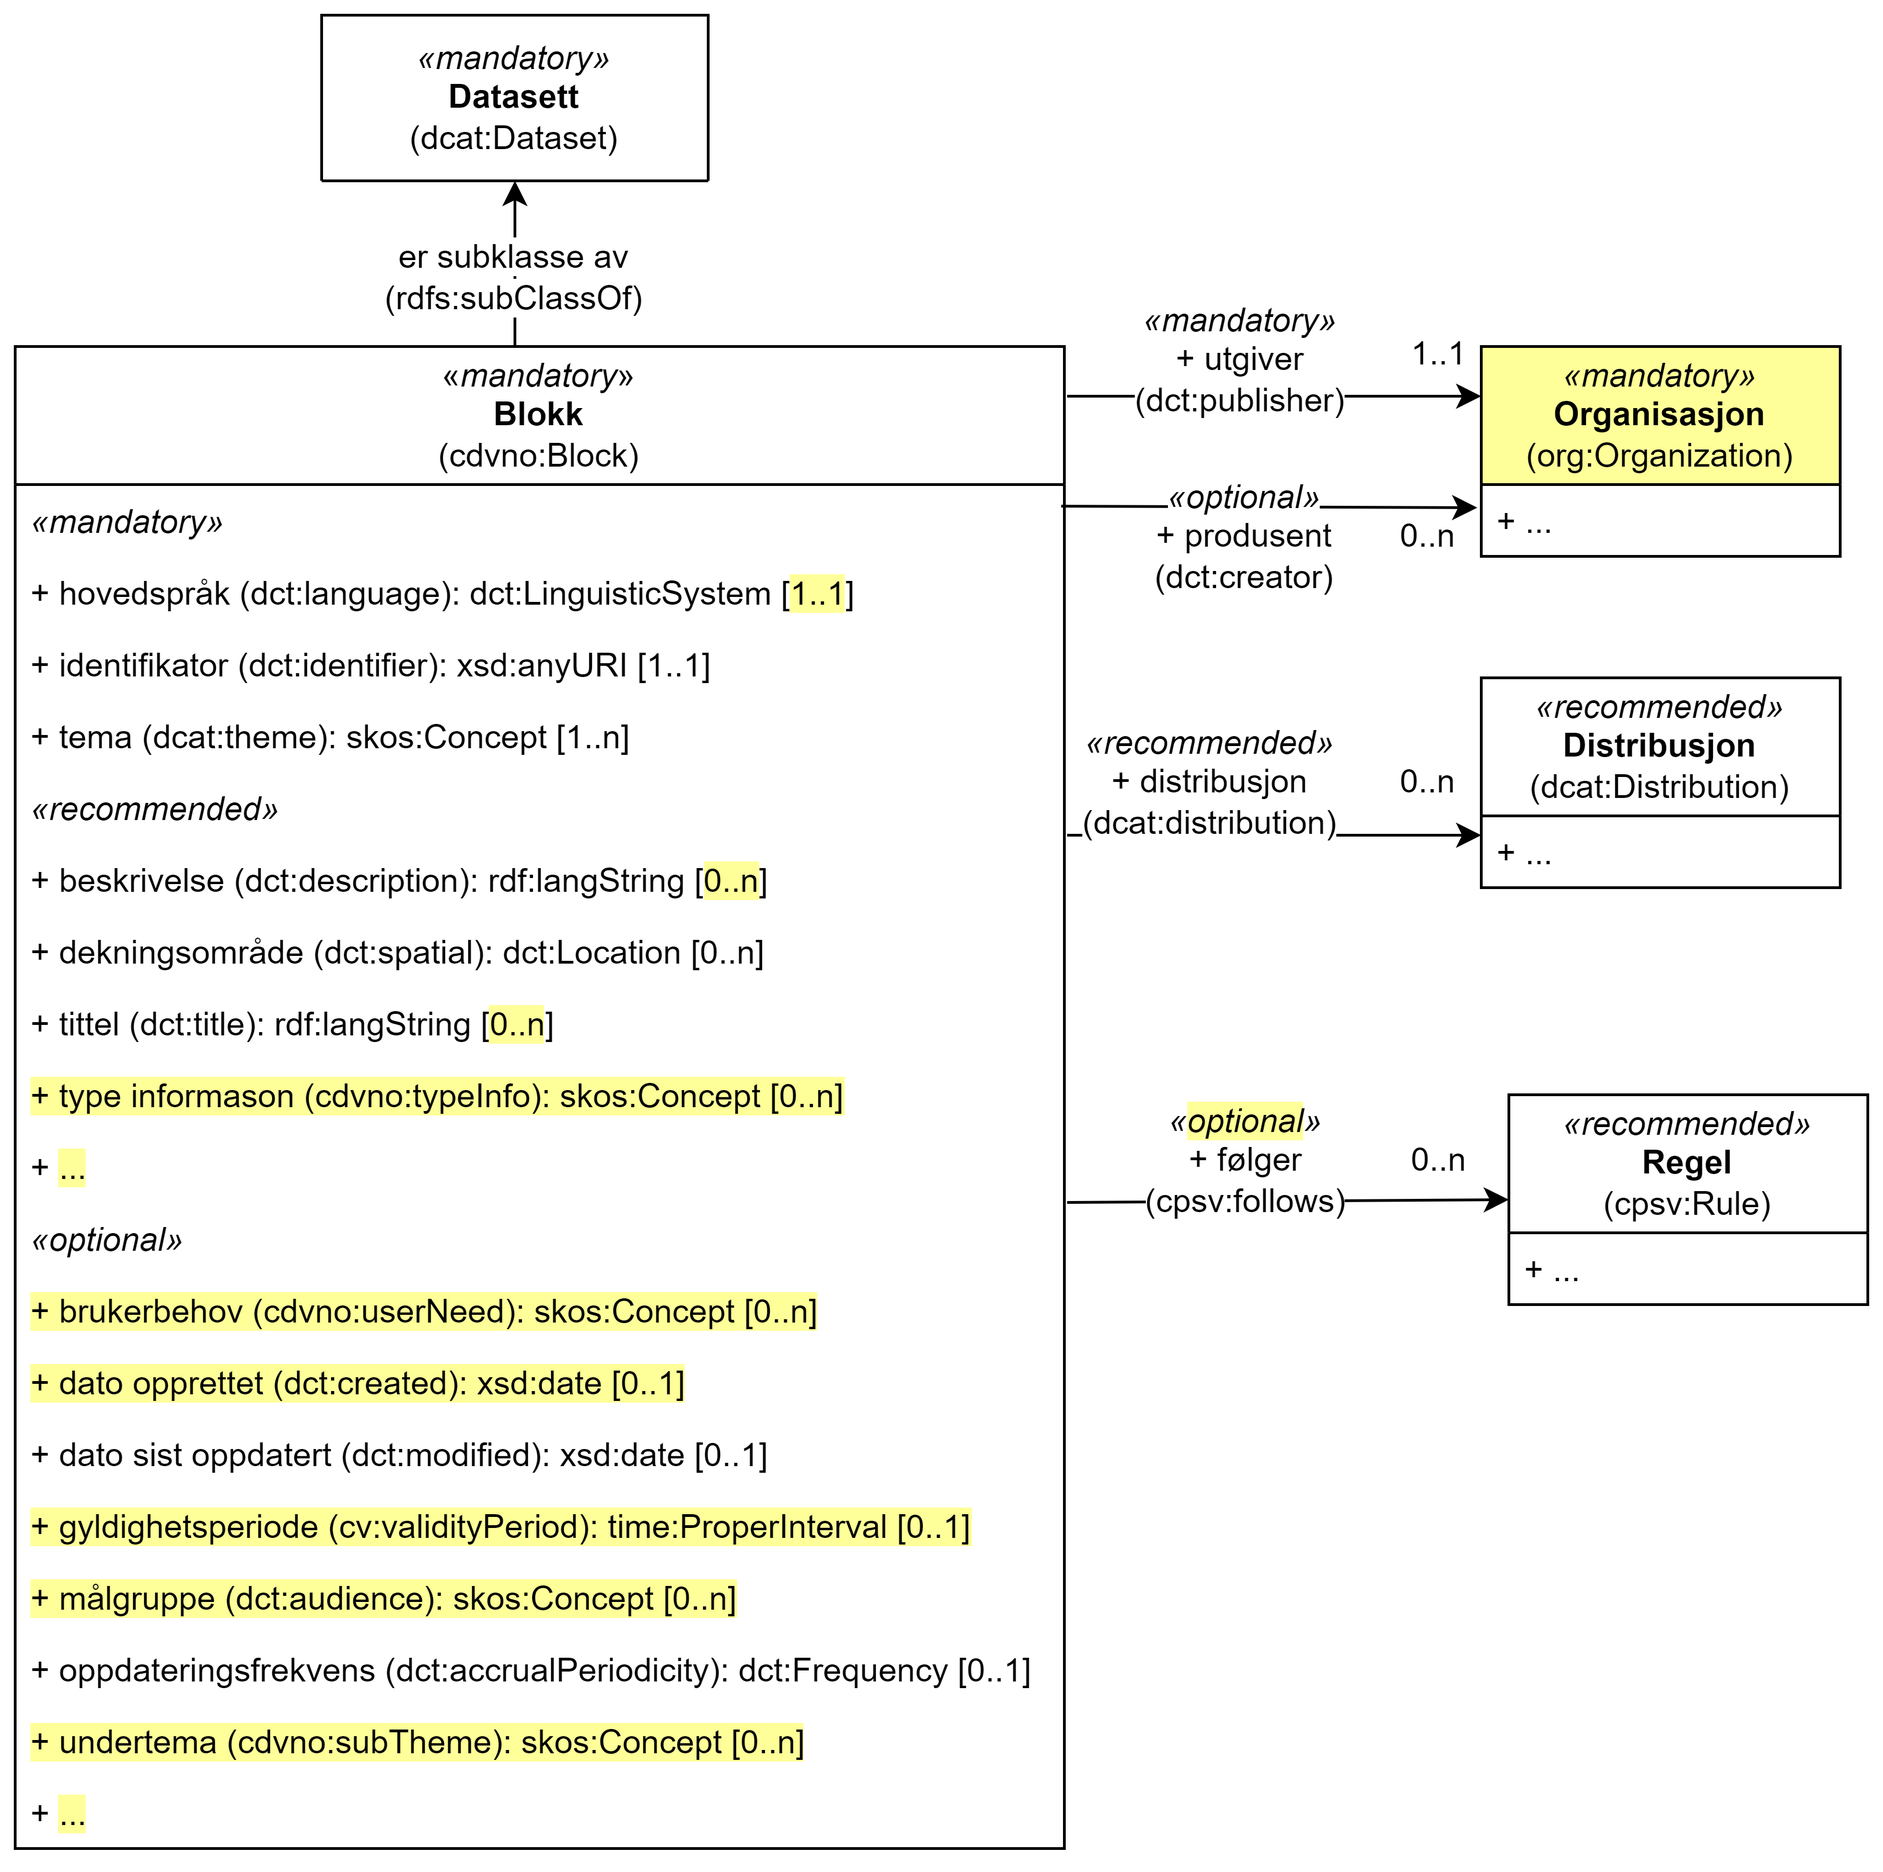
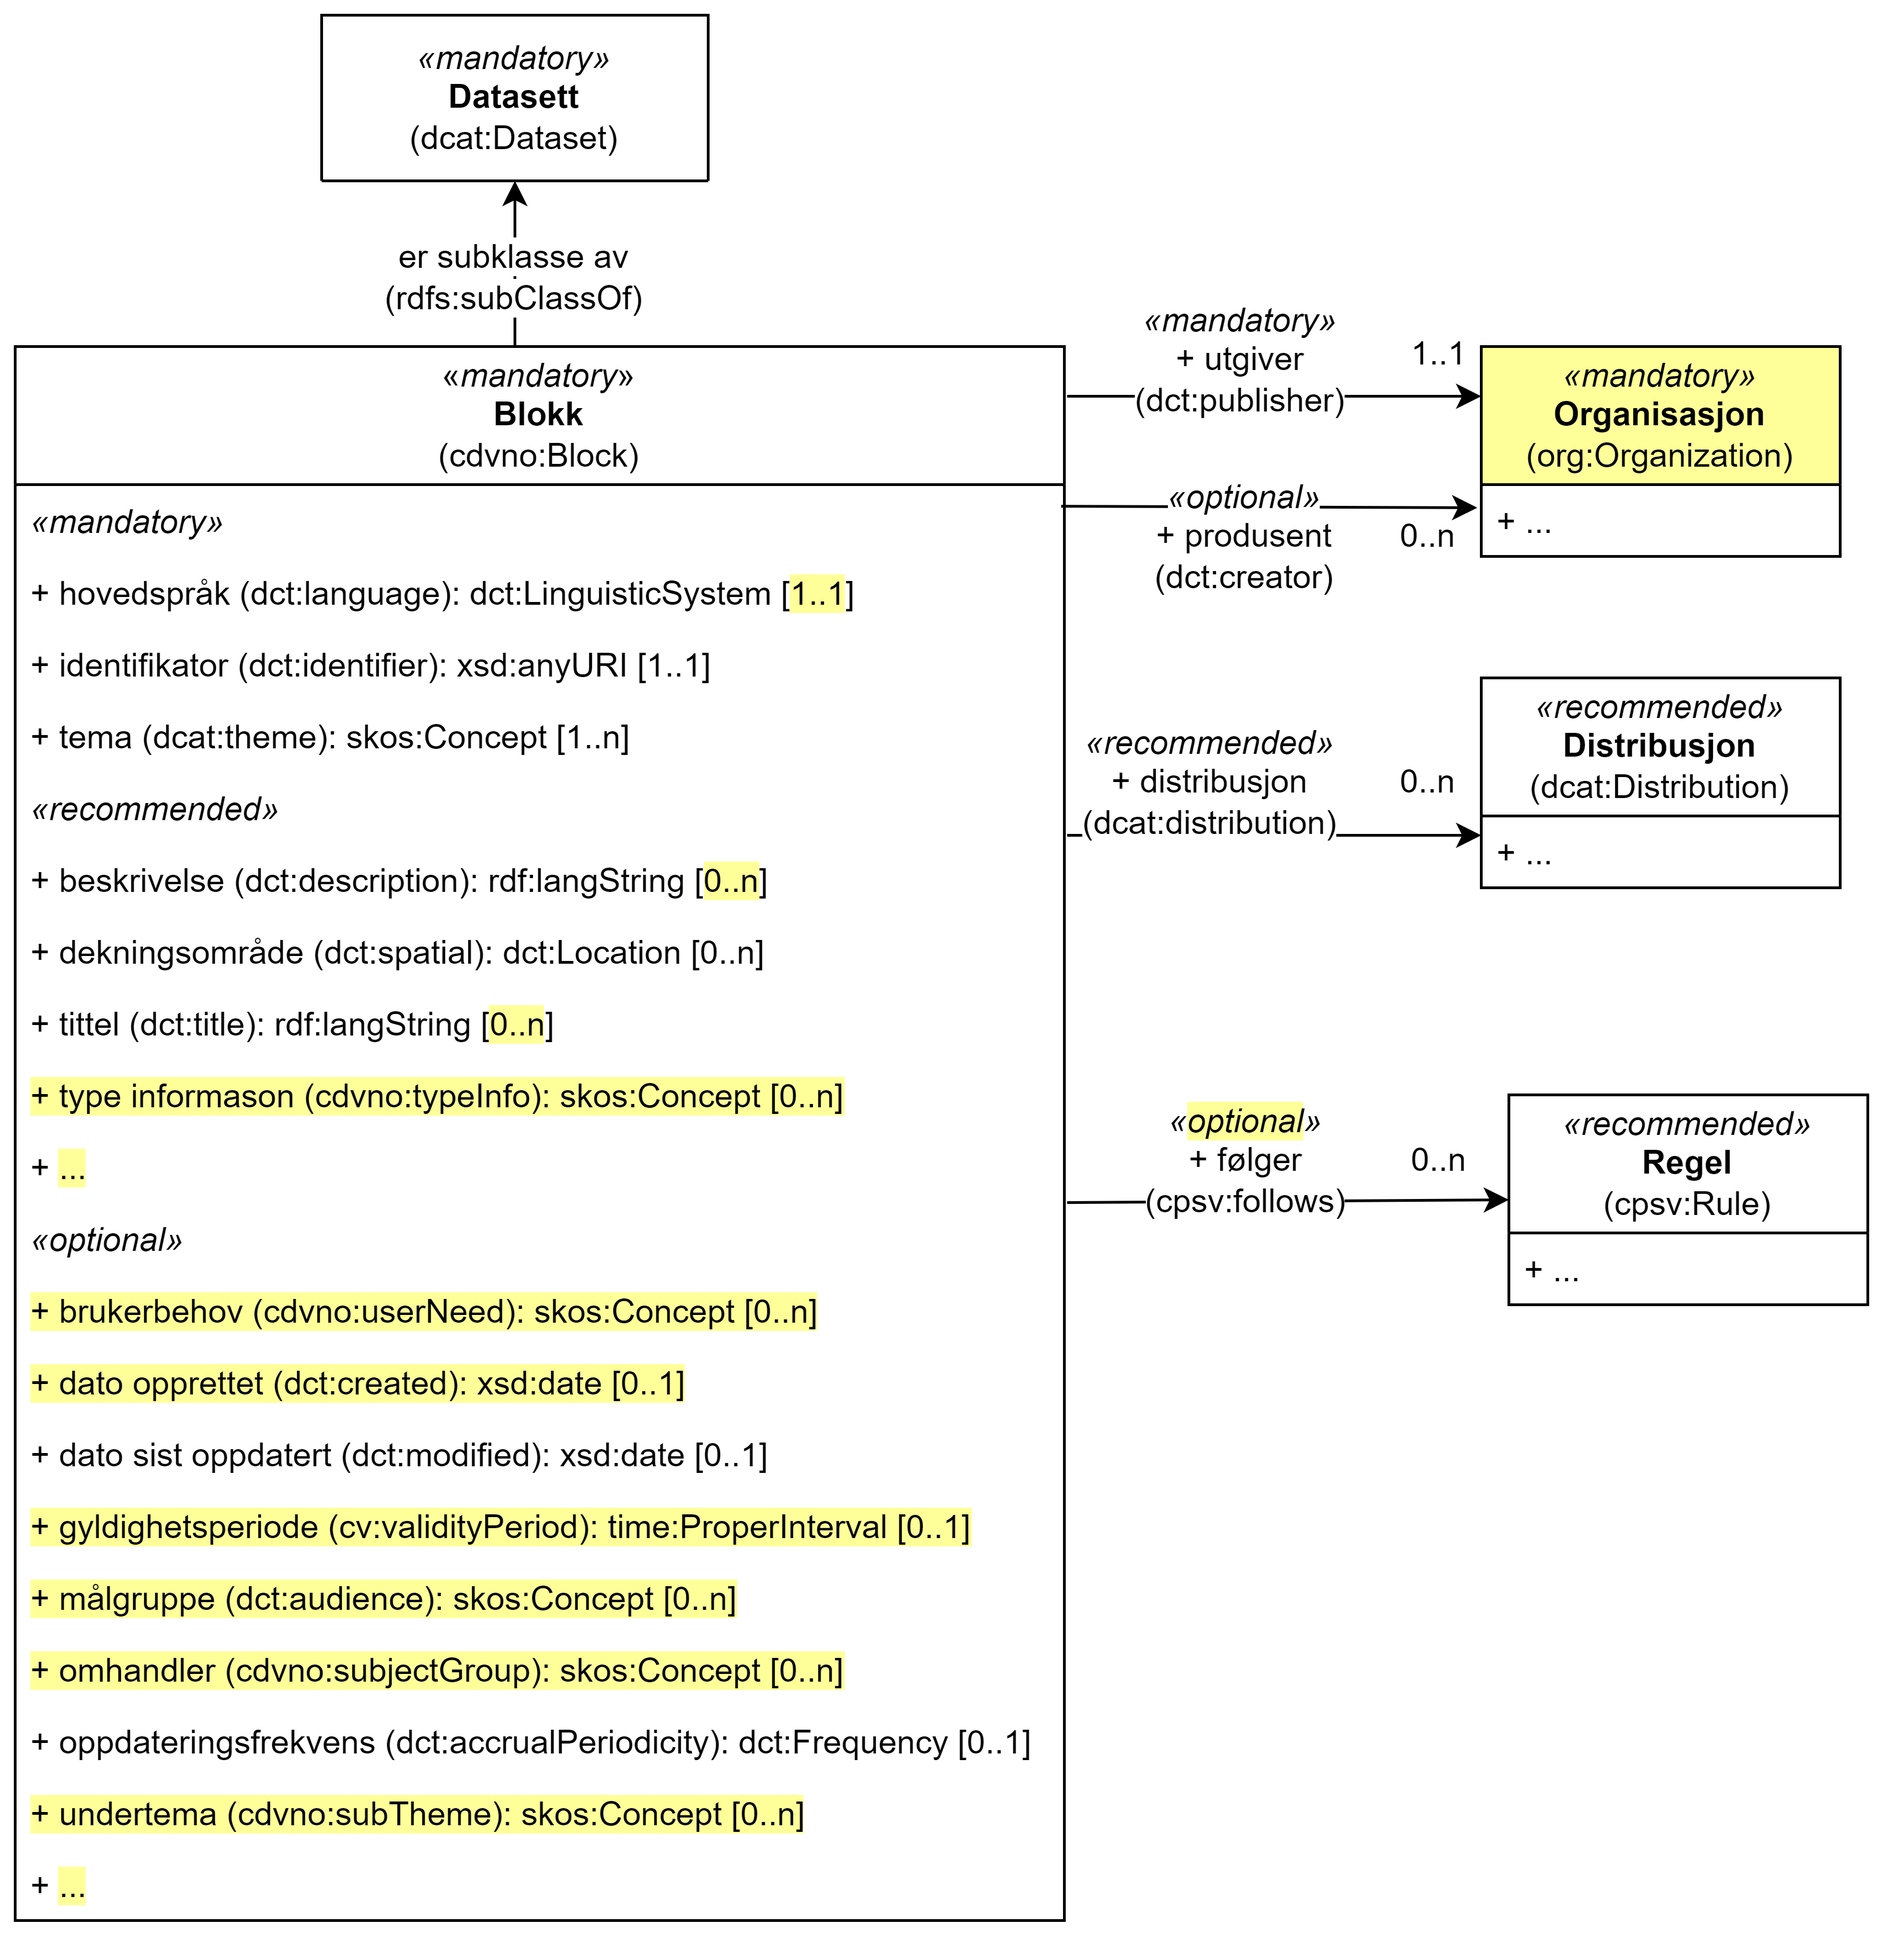
deploy: 213724a135ac8d656a3df1b0c06a4618cbc18ab9

diff --git a/cdvno/index.html b/cdvno/index.html
@@ -563,6 +563,7 @@ body.book #toc,body.book #preamble,body.book h1.sect0,body.book .sect1>h2{page-b
 <li><a href="#Blokk-følger">Blokk - følger (cpsv:follows)</a></li>
 <li><a href="#Blokk-gyldighetsperiode">Blokk - gyldighetsperiode (cv:validityPeriod)</a></li>
 <li><a href="#Blokk-målgruppe">Blokk - målgruppe (dct:audience)</a></li>
+<li><a href="#Blokk-målgruppe">Blokk - omhandler (cdvno:subjectGroup)</a></li>
 <li><a href="#Blokk-oppdateringsfrekvens">Blokk - oppdateringsfrekvens (dct:accrualPeriodicity) </a></li>
 <li><a href="#Blokk-creator">Blokk - produsent (dct:creator)</a></li>
 <li><a href="#Blokk-undertema">Blokk - undertema (cdvno:subTheme)</a></li>
@@ -1824,8 +1825,8 @@ Det som utformes/utprøves i denne sandkassa er: Forslag til metadatamodell i "S
 </tr>
 <tr>
 <td class="tableblock halign-left valign-top"><p class="tableblock"><strong>Anvendelse / <em>Usage note</em></strong></p></td>
-<td class="tableblock halign-left valign-top"><p class="tableblock">Egenskapen brukes til å oppgi målgruppe som blokkens innhold er ment for.</p>
-<p class="tableblock"><em>This property is used to specify the audience that the content of the block is meant for.</em></p></td>
+<td class="tableblock halign-left valign-top"><p class="tableblock">Egenskapen brukes til å oppgi målgruppe som blokkens innhold er ment for, dvs. typiske lesere.</p>
+<p class="tableblock"><em>This property is used to specify the audience that the content of the block is meant for, i.e., typical readers.</em></p></td>
 </tr>
 <tr>
 <td class="tableblock halign-left valign-top"><p class="tableblock"><strong>Multiplisitet / <em>Multiplicity</em></strong></p></td>
@@ -1849,6 +1850,66 @@ Det som utformes/utprøves i denne sandkassa er: Forslag til metadatamodell i "S
 <div class="content">
 <pre>&lt;aBlock&gt; a cdvno:Block; # blokk
    dct:audience &lt;&gt;; # målgruppe
+   .</pre>
+</div>
+</div>
+</div>
+<div class="sect3">
+<h4 id="Blokk-målgruppe"><a class="anchor" href="#Blokk-målgruppe"></a>Blokk - omhandler (cdvno:subjectGroup)</h4>
+<table class="tableblock frame-all grid-all stripes-even stretch">
+<colgroup>
+<col style="width: 30%;">
+<col style="width: 70%;">
+</colgroup>
+<tbody>
+<tr>
+<td class="tableblock halign-left valign-top"><p class="tableblock"><strong><em>English name</em></strong></p></td>
+<td class="tableblock halign-left valign-top"><p class="tableblock"><em>subject group (it is about)</em></p></td>
+</tr>
+<tr>
+<td class="tableblock halign-left valign-top"><p class="tableblock"><strong>URI</strong></p></td>
+<td class="tableblock halign-left valign-top"><p class="tableblock">cdvno:subjectGroup</p></td>
+</tr>
+<tr>
+<td class="tableblock halign-left valign-top"><p class="tableblock"><strong>Subegenskap av / <em>Subproperty of</em></strong></p></td>
+<td class="tableblock halign-left valign-top"><p class="tableblock">dct:subject</p></td>
+</tr>
+<tr>
+<td class="tableblock halign-left valign-top"><p class="tableblock"><strong>Verdiområde / <em>Range</em></strong></p></td>
+<td class="tableblock halign-left valign-top"><p class="tableblock">skos:Concept</p></td>
+</tr>
+<tr>
+<td class="tableblock halign-left valign-top"><p class="tableblock"><strong>Anvendelse / <em>Usage note</em></strong></p></td>
+<td class="tableblock halign-left valign-top"><p class="tableblock">Egenskapen brukes til å oppgi hvem (ikke som individ, men gruppe) blokkens innhold handler om.</p>
+<p class="tableblock"><em>This property is used to specify whom (but as an individual, but as a group) the content of the block is about.</em></p></td>
+</tr>
+<tr>
+<td class="tableblock halign-left valign-top"><p class="tableblock"><strong>Multiplisitet / <em>Multiplicity</em></strong></p></td>
+<td class="tableblock halign-left valign-top"><p class="tableblock">0..n</p></td>
+</tr>
+<tr>
+<td class="tableblock halign-left valign-top"><p class="tableblock"><strong>Kravnivå / <em>Requirement level</em></strong></p></td>
+<td class="tableblock halign-left valign-top"><p class="tableblock">Valgfri / <em>Optional</em></p></td>
+</tr>
+<tr>
+<td class="tableblock halign-left valign-top"><p class="tableblock"><strong>Merknad / <em>Note</em></strong></p></td>
+<td class="tableblock halign-left valign-top"><p class="tableblock">Verdien bør velges fra et kontrollert vokabular.</p>
+<p class="tableblock"><em>The value should be chosen from a controlled vocabulary.</em></p></td>
+</tr>
+<tr>
+<td class="tableblock halign-left valign-top"><p class="tableblock"><strong>Eksempel / <em>Example</em></strong></p></td>
+<td class="tableblock halign-left valign-top"><p class="tableblock">Barn i førskolealder, barn i folkeskolealder osv.</p>
+<p class="tableblock"><em>preschoolers, children in primary school age etc.</em></p></td>
+</tr>
+</tbody>
+</table>
+<div class="paragraph">
+<p>Eksempel i RDF Turtle:</p>
+</div>
+<div class="listingblock">
+<div class="content">
+<pre>&lt;aBlock&gt; a cdvno:Block; # blokk
+   cdvno:subjectGroup &lt;preschooler&gt;; # omhandler
    .</pre>
 </div>
 </div>
@@ -4718,7 +4779,7 @@ Det som utformes/utprøves i denne sandkassa er: Forslag til metadatamodell i "S
 </div>
 <div id="footer">
 <div id="footer-text">
-Sist oppdatert 2023-05-30 09:39:20 UTC
+Sist oppdatert 2023-05-30 10:38:08 UTC
 </div>
 </div>
 </body>
